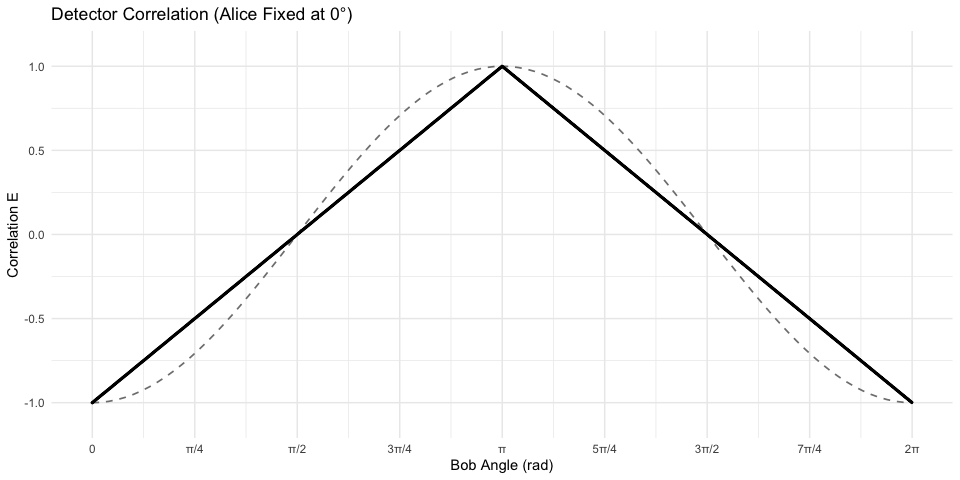
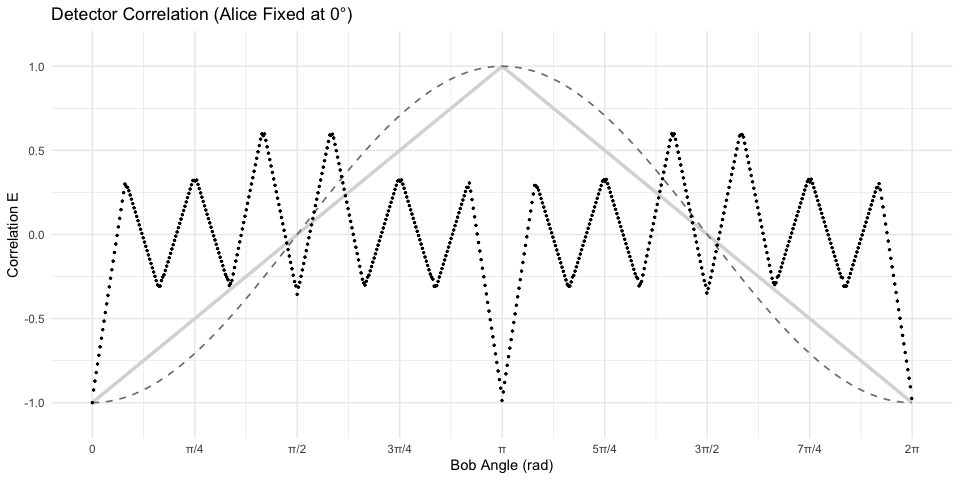
baseline established

diff --git a/src/bell_test_simulator.cpp b/src/bell_test_simulator.cpp
@@ -52,29 +52,37 @@ void micro_macro_bell_erasure_sweep(
 
       // Calculate alpha using the already-wrapped detector_angle_rad
       double alpha = std::remainder(microstate - detector_angle_rad, 2.0 * M_PI) / M_PI;
+      // double alpha = std::remainder(microstate, 2.0 * M_PI) / M_PI;
 
-      double delta_phi = 1.0;
+      // double cos_alpha = std::abs(std::cos(alpha));
+      // double delta_phi = 2.0 * ((1.0 / cos_alpha) - 1.0);
+      // double delta_phi = cos_alpha;
+
+      double delta_phi = 0.08;
 
       // Execute Native Erasure
       EraseResult erasure = erase_single_native(alpha, delta_phi, max_depth);
+      // EraseResult erasure = erase_single_native(microstate, delta_phi, max_depth);
 
-      // Map to Macrostates
+      // 4. Map to Macrostates
       double erasure_distance = erasure.found ? erasure.erasure_distance : 0.0;
-      double erasure_distance_rad = erasure_distance * M_PI;
-      double particle_angle = detector_angle_rad + erasure_distance_rad;
+      double erasure_distance_rad = erasure_distance * M_PI * 2.0;
 
-      // Rotationally invariant spin measurement
-      int spin = std::cos(erasure_distance_rad) >= 0 ? 1 : -1;
+      // The global final angle is the detector's angle plus the final relative macrostate
+      double particle_angle = detector_angle_rad + (erasure.macrostate * M_PI);
+
+      int spin = erasure_distance >= 0 ? 1 : -1;
+      // int spin = std::cos(erasure_distance_rad) >= 0 ? 1 : -1;
 
       // Write Row
       gzprintf(file, "%.6f,%d,%.6f,%.6f,%.6f,%.6f,%.0f,%.0f,%s,%s,%d,%.6f,%d,%d,%d,%d\n",
                detector_angle_rad, spin,
-               erasure_distance, particle_angle, erasure.macrostate, erasure.uncertainty,
+               erasure_distance, microstate, erasure.macrostate, erasure.uncertainty,
                erasure.numerator, erasure.denominator,
                erasure.stern_brocot_path.c_str(), erasure.minimal_program.c_str(),
                erasure.program_length, erasure.shannon_entropy, erasure.left_count, erasure.right_count,
                max_depth, (int)erasure.found);
-    }
+      }
     gzclose(file);
   });
   pool.wait();

diff --git a/bell_test.md b/bell_test.md
@@ -3,11 +3,14 @@ Bell Test: Symplectic Contextual Erasure
 
 ## Statistical Summary
 
-| Metric              | Value |
-|:--------------------|:------|
-| **CHSH S-Value**    | **2** |
-| **Classical Limit** | 2.0   |
-| **Quantum Limit**   | 2.828 |
+## Statistical Summary
+
+| Metric                   | Value       |
+|:-------------------------|:------------|
+| **CHSH S-Value**         | **0.63886** |
+| **Classical Limit**      | 2.0         |
+| **Quantum Limit**        | 2.828       |
+| **Algorithm Found Rate** | **100%**    |
 
 ------------------------------------------------------------------------
 
@@ -31,10 +34,72 @@ $(\theta_B - \theta_A)$.
 ### CHSH Breakdown
 
 ``` text
-E(0,  pi/4):  -0.5001
-E(0, 3pi/4):   0.5000
-E(90, pi/4):  -0.4997
-E(90, 3pi/4): -0.5002
+E(0,  pi/4):   0.3190
+E(0, 3pi/4):   0.3183
+E(90, pi/4):   0.3194
+E(90, 3pi/4):  0.3188
 -----------------------
-S-Value:       2.0000
+S-Value:       0.6389
 ```
+
+------------------------------------------------------------------------
+
+## Erasure Transfer Function
+
+This plot visualizes the internal mathematical “warp” of the contextual
+erasure. It shows how the continuous local hidden variable (microstate)
+is shifted into its final macroscopic physical distance.
+
+![](bell_test_files/figure-gfm/plot-transfer-function-1.png)<!-- -->
+
+------------------------------------------------------------------------
+
+## Erasure Distance vs. Uncertainty
+
+This plot visualizes the relationship between the physical shift
+required to snap to a rational macrostate (`erasure_distance`) and the
+fundamental uncertainty of that resulting state. It reveals the
+precision trade-offs inherent in the contextual erasure process.
+
+![](bell_test_files/figure-gfm/plot-distance-vs-uncertainty-1.png)<!-- -->
+
+------------------------------------------------------------------------
+
+## Algorithmic Complexity of Measurement
+
+This plot reveals the thermodynamic cost of the measurement context. As
+the particle’s relative angle changes, the computational effort (program
+length) required to map the microstate to a rational Stern-Brocot
+macrostate fluctuates in a fractal pattern.
+
+![](bell_test_files/figure-gfm/plot-complexity-1.png)<!-- -->
+
+------------------------------------------------------------------------
+
+## Erasure Success Rate
+
+This plot verifies the percentage of microstates successfully resolved
+to a rational macrostate before hitting the maximum search depth limit
+(`max_depth = 2000`). For the simulation to be valid, this must remain
+at 100%.
+
+![](bell_test_files/figure-gfm/plot-found-rate-1.png)<!-- -->
+
+------------------------------------------------------------------------
+
+## Quantization into Rational Macrostates
+
+This histogram demonstrates how the contextual erasure acts as a fractal
+attractor, quantizing the uniform continuous microstates into discrete
+rational fractions on the Stern-Brocot tree.
+
+![](bell_test_files/figure-gfm/plot-attractors-1.png)<!-- -->
+
+## Macrostate vs. Initial Microstate
+
+This plot maps the initial continuous hidden variable (microstate)
+directly to the resolved Stern-Brocot fraction (macrostate). In a purely
+classical model, this forms a rigid “Devil’s Staircase” along a linear
+diagonal.
+
+![](bell_test_files/figure-gfm/plot-macro-vs-micro-1.png)<!-- -->
